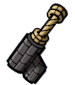
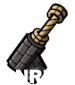
.

Changed region(s): [[0.2133, 0.8, 0.64, 0.9882]]

diff --git a/core/src/main/java/com/mygdx/game/screens/levels/Level.java b/core/src/main/java/com/mygdx/game/screens/levels/Level.java
@@ -36,6 +36,9 @@ import static com.mygdx.game.screens.levels.Level_Manager.*;
 import java.io.*;
 import java.util.ArrayList;
 import java.util.HashMap;
+import java.util.Timer;
+import java.util.TimerTask;
+import java.util.concurrent.ScheduledExecutorService;
 
 import static com.mygdx.game.images.Images.*;
 import static com.mygdx.game.screens.levels.Level_Manager.bodiesToDestroy;
@@ -75,7 +78,7 @@ public class Level extends State implements ContactListener, Serializable {
 
     private Array<Rope> ropes = new Array();
     Rope rope;
-
+    private boolean beenHit;
 
 
     public void init(){
@@ -598,11 +601,11 @@ public class Level extends State implements ContactListener, Serializable {
             if (boy.actionRect().overlaps(monster1.getBodyBounds())) {
                 monster1.getBody().setLinearVelocity(0, 0);
                 if (boy.animations.name().equals("BOY_SABER") && boy.frameCounter() > 0f) {
-                    monster1.animations = Animations.MONSTER1_SPLIT;
-                    monster1.setSplit(true);
                     for (Fixture f : monster1.getBody().getFixtureList()) {
                         f.setSensor(true);
                     }
+                    monster1.animations = Animations.MONSTER1_SPLIT;
+                    monster1.setSplit(true);
                     monster1.getBody().setGravityScale(0f);
                     monster1.getBody().setLinearVelocity(0f, 0f);
                 } else {
@@ -611,12 +614,23 @@ public class Level extends State implements ContactListener, Serializable {
                 }
                 monster1.getBody().setFixedRotation(true);
             } else
-            if (monster1.getBodyBounds().overlaps(boy.getBodyBounds()) && boy.animations.name().equals("BOY_PUNCHING") && !boy.actionRect().overlaps(monster1.getBodyBounds()) && !boy.animations.name().equals("BOY_SABER")) {
-                boy.beenHit();
+                 if (monster1.getBodyBounds().overlaps(boy.getBodyBounds()) && !boy.animations.name().equals("BOY_PUNCHING") && !boy.actionRect().overlaps(monster1.getBodyBounds()) && !boy.animations.name().equals("BOY_SABER")) {
+                boy.getBody().setLinearVelocity(boy.getBody().getLinearVelocity().x + (monster1.getBody().getPosition().x > boy.getBody().getPosition().x ? -15 : 15), boy.getBody().getLinearVelocity().y + 20f);
+                new Timer().schedule(new TimerTask() {
+                    @Override
+                    public void run() {
+                        beenHit = false;
+                    }
+                }, 5000);
+                if (!beenHit) {
+                    boy.beenHit();
+                    beenHit = true;
+                }
             }
                 if (boy.actionRect().overlaps(monster1.getBodyBounds()) && boy.animations.name().equals("BOY_PUNCHING")) {
-                    monster1.getBody().setLinearVelocity(monster1.getBody().getLinearVelocity().x + monster1.getBody().getPosition().x > boy.getBody().getPosition().x ? 15 : -15, monster1.getBody().getLinearVelocity().y + 20f);
-                    monster1.animations = Animations.MONSTER1_FLICKERING;
+//                    monster1.getBody().setLinearVelocity(monster1.getBody().getLinearVelocity().x + monster1.getBody().getPosition().x > boy.getBody().getPosition().x ? 15 : -15, monster1.getBody().getLinearVelocity().y + 20f);
+//                    monster1.animations = Animations.MONSTER1_FLICKERING;
+                    monster1.beenHit();
                 }
 
         }

diff --git a/core/src/main/java/com/mygdx/game/images/Images.java b/core/src/main/java/com/mygdx/game/images/Images.java
@@ -41,6 +41,7 @@ public class Images implements Serializable {
     public static Texture leaf;
     public static Sprite shooting1, shooting2, shoot;
     public static Sprite ninjaRope_shoot, rope;
+    public static Sprite ninjaRope;
     public static Sprite top;
     public static Sprite aim;
     public static Sprite legs;
@@ -120,14 +121,15 @@ public class Images implements Serializable {
         jetPack_inventory = new Sprite(new Texture(Gdx.files.internal("items/JetPack_75x85.png")));
         equipped_inventory = new Sprite(new Texture(Gdx.files.internal("items/Equipped_75x85.png")));
         ninjaRope_inventory = new Sprite(new Texture(Gdx.files.internal("items/NinjaRope_75x85.png")));
+        ninjaRope = new Sprite(new Texture(Gdx.files.internal("items/NinjaRope_75x85(2).png")));
         spaceItem = new Sprite(new Texture(Gdx.files.internal("items/SpaceItem.png")));
         equipped_inventory.setSize(67,74);
-        itemsDraw.put("Saber", saber_inventory);
-        itemsDraw.put("Rifle", rifle_inventory);
-        itemsDraw.put("JetPack", jetPack_inventory);
         itemsDraw.put("NinjaStar", ninjaStar_inventory);
-        itemsDraw.put("Equipped", equipped_inventory);
+        itemsDraw.put("Rifle", rifle_inventory);
+        itemsDraw.put("Saber", saber_inventory);
+        itemsDraw.put("JetPack", jetPack_inventory);
         itemsDraw.put("NinjaRope", ninjaRope_inventory);
+        itemsDraw.put("Equipped", equipped_inventory);
 
         inventory = new Sprite(new Texture(Gdx.files.internal("items/Inventory_clear.png")));
         try {

diff --git a/core/src/main/java/com/mygdx/game/items/NinjaRope.java b/core/src/main/java/com/mygdx/game/items/NinjaRope.java
@@ -18,8 +18,7 @@ import com.mygdx.game.system.BodyData;
 
 //import static com.mygdx.game.bodies.Builder.box;
 import static com.mygdx.game.bodiesAndShapes.BodiesAndShapes.box;
-import static com.mygdx.game.images.Images.ninjaRope_inventory;
-import static com.mygdx.game.images.Images.shoot;
+import static com.mygdx.game.images.Images.*;
 import static com.mygdx.game.screens.levels.Level_Manager.viewport;
 import static com.mygdx.game.screens.levels.Level_Manager.world;
 
@@ -56,6 +55,7 @@ public class NinjaRope extends Objeto implements Item{
     private int index;
     private boolean jointHasBeenCreated;
     private boolean touched2;
+
 
     public NinjaRope(Body playerBody){
         this.playerBody = playerBody;
@@ -236,7 +236,7 @@ public class NinjaRope extends Objeto implements Item{
 
     public void render(SpriteBatch batch) {
         if (body != null) {
-            Sprite sprite = new Sprite(ninjaRope_inventory);
+            Sprite sprite = new Sprite(ninjaRope);
             sprite.setPosition(body.getPosition().x, body.getPosition().y);
             sprite.setOriginCenter();
             sprite.rotate(1f);

diff --git a/core/src/main/java/com/mygdx/game/entities/Boy.java b/core/src/main/java/com/mygdx/game/entities/Boy.java
@@ -75,6 +75,7 @@ public class Boy extends Objeto {
     private float throwTimer;
     public static boolean ropeShoot;
     private boolean onGround;
+    private float delta;
 
     public Boy(Vector2 bodyPosition, Viewport viewport){
         super(WIDTH, HEIGHT);
@@ -151,12 +152,16 @@ public class Boy extends Objeto {
                 }
                 throwNinjaStar1.setPosition(body.getPosition().x, body.getPosition().y);
                 legs.draw(s);
-                throwNinjaStar1.draw(s);
+                if (!thrown)
+                    throwNinjaStar1.draw(s);
                 s.draw(shoot, worldX - 13, worldY - 9);
             }
             if (thrown) {
                 throwNinjaStar2.setPosition(body.getPosition().x, body.getPosition().y);
                 throwNinjaStar2.draw(s);
+                delta += Gdx.graphics.getDeltaTime();
+                if (delta > 100)
+                    thrown = false;
             }
             if (ropeShoot){
                 if (isMoving()) //when he is moving and didn't active the jetpack

diff --git a/core/src/main/java/com/mygdx/game/items/inventory/ItemToBeDrawn.java b/core/src/main/java/com/mygdx/game/items/inventory/ItemToBeDrawn.java
@@ -52,7 +52,7 @@ public class ItemToBeDrawn implements Item {
         addItemToInventory(this);
         System.out.println(name);
         treeMap_Items.put(name, this);
-        if (!treeMap_Items.isEmpty())
+//        if (!treeMap_Items.isEmpty())
             this.index = treeMap_Items.size() - 1;
 //        if (name.equals(equip))
 //            return;
